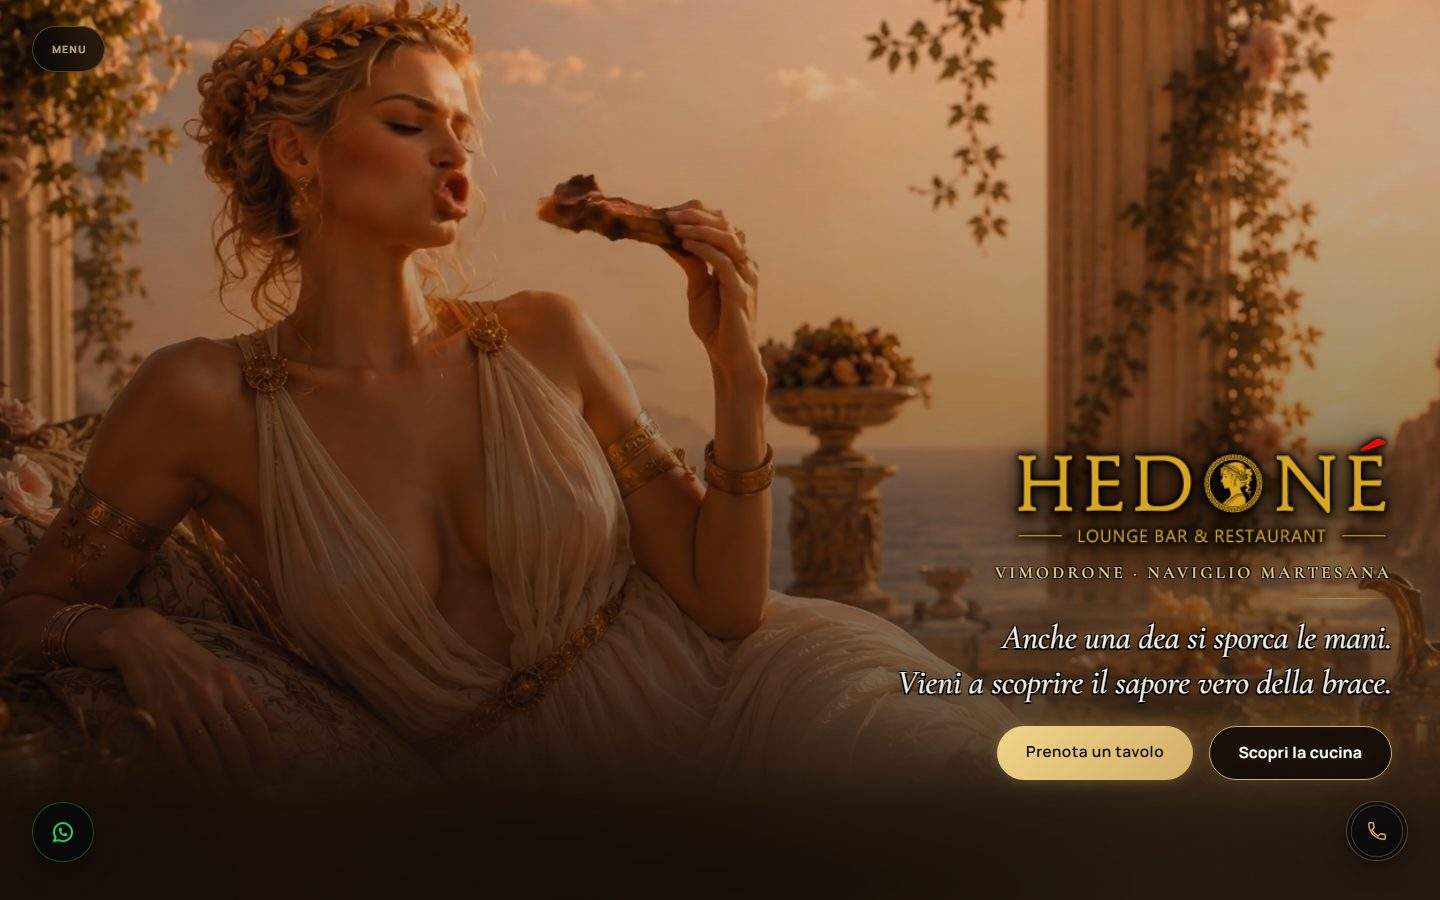
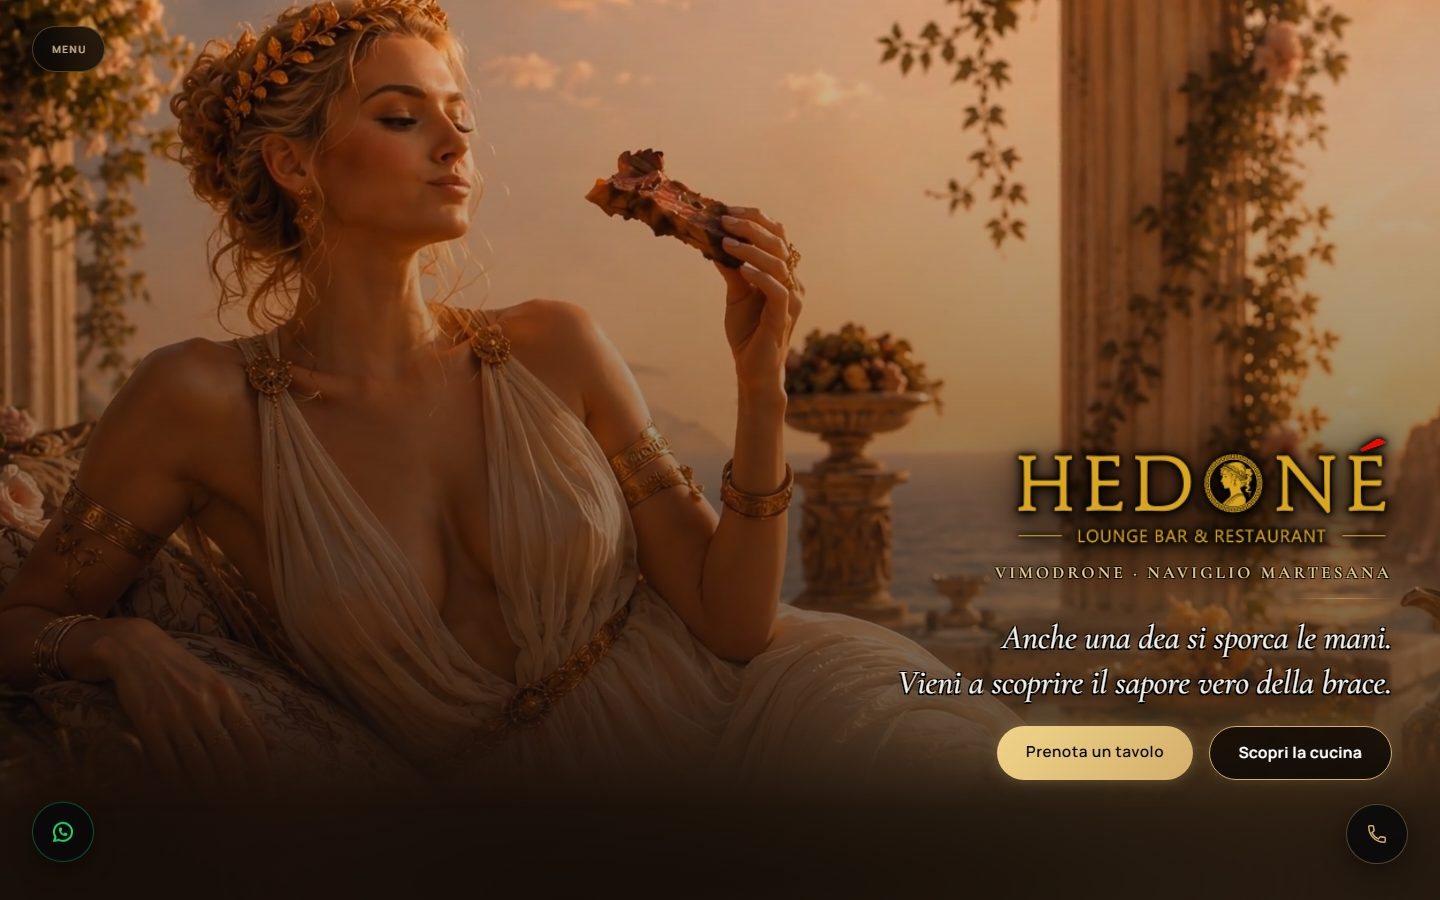
feat: screenshot aggiornati di Hedone, Ossidiana e Studio Lumea
Nuove catture dalle versioni pubblicate (telefono 1170x2532 senza tagli
ai lati anche per Hedone), cache-busting ?v=3.

diff --git a/index.html b/index.html
@@ -62,9 +62,9 @@
           <a class="project-media" href="https://www.hedonevimodrone.it/" target="_blank" rel="noopener" aria-label="Apri il sito Hedoné">
             <div class="browser">
               <div class="browser-bar"><span></span><span></span><span></span><em>hedonevimodrone.it</em></div>
-              <img src="assets/shots/hedone-desk.jpg?v=2" alt="Home page del sito Hedoné su desktop" loading="lazy" width="1440" height="900">
+              <img src="assets/shots/hedone-desk.jpg?v=3" alt="Home page del sito Hedoné su desktop" loading="lazy" width="1440" height="900">
             </div>
-            <div class="phone"><img src="assets/shots/hedone-mob.jpg?v=2" alt="Home page del sito Hedoné su smartphone" loading="lazy" width="390" height="844"></div>
+            <div class="phone"><img src="assets/shots/hedone-mob.jpg?v=3" alt="Home page del sito Hedoné su smartphone" loading="lazy" width="390" height="844"></div>
           </a>
           <div class="project-body">
             <div class="project-meta"><span class="badge badge-live">Online</span><span class="mono">Sito vetrina · 2026</span></div>
@@ -88,9 +88,9 @@
           <a class="project-media" href="https://chillguyzofficial-spec.github.io/ossidiana/" target="_blank" rel="noopener" aria-label="Apri il sito Ossidiana">
             <div class="browser">
               <div class="browser-bar"><span></span><span></span><span></span><em>ossidiana</em></div>
-              <img src="assets/shots/ossidiana-desk.jpg?v=2" alt="Home page del sito Ossidiana su desktop" loading="lazy" width="1440" height="900">
+              <img src="assets/shots/ossidiana-desk.jpg?v=3" alt="Home page del sito Ossidiana su desktop" loading="lazy" width="1440" height="900">
             </div>
-            <div class="phone"><img src="assets/shots/ossidiana-mob.jpg?v=2" alt="Home page del sito Ossidiana su smartphone" loading="lazy" width="390" height="844"></div>
+            <div class="phone"><img src="assets/shots/ossidiana-mob.jpg?v=3" alt="Home page del sito Ossidiana su smartphone" loading="lazy" width="390" height="844"></div>
           </a>
           <div class="project-body">
             <div class="project-meta"><span class="badge">Concept</span><span class="mono">Sito vetrina · 2026</span></div>
@@ -162,9 +162,9 @@
           <a class="project-media" href="https://chillguyzofficial-spec.github.io/StudioLumea_Dentistico/" target="_blank" rel="noopener" aria-label="Apri il sito Studio Lumea">
             <div class="browser">
               <div class="browser-bar"><span></span><span></span><span></span><em>studio lumea</em></div>
-              <img src="assets/shots/dentista-desk.jpg?v=2" alt="Home page del sito Studio Lumea su desktop" loading="lazy" width="1440" height="900">
+              <img src="assets/shots/dentista-desk.jpg?v=3" alt="Home page del sito Studio Lumea su desktop" loading="lazy" width="1440" height="900">
             </div>
-            <div class="phone"><img src="assets/shots/dentista-mob.jpg?v=2" alt="Home page del sito Studio Lumea su smartphone" loading="lazy" width="390" height="844"></div>
+            <div class="phone"><img src="assets/shots/dentista-mob.jpg?v=3" alt="Home page del sito Studio Lumea su smartphone" loading="lazy" width="390" height="844"></div>
           </a>
           <div class="project-body">
             <div class="project-meta"><span class="badge">Concept</span><span class="mono">Sito vetrina · 2026</span></div>
